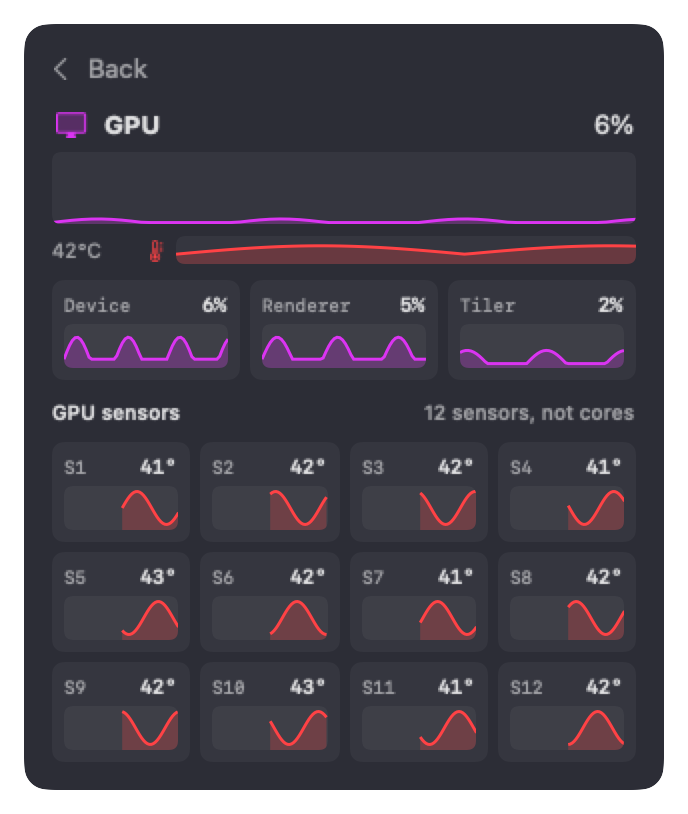
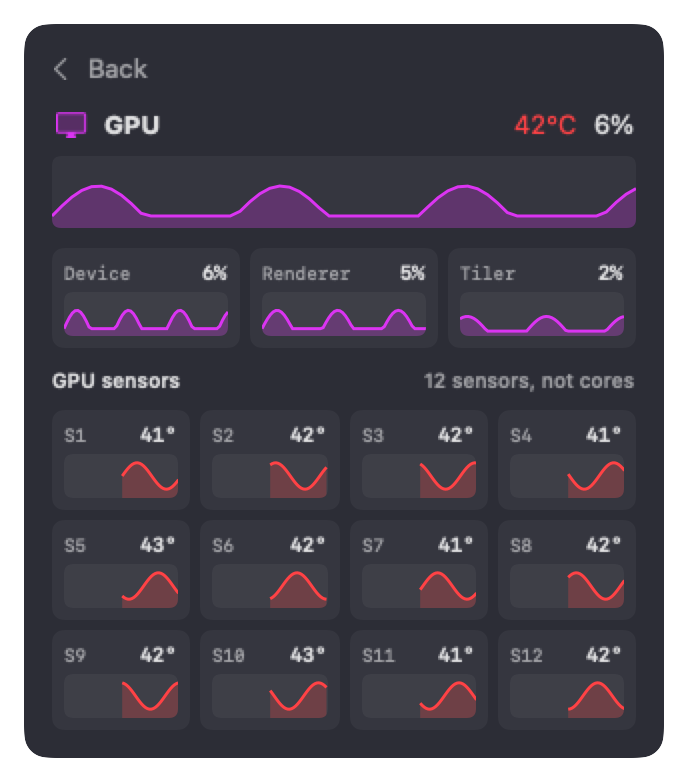
Simpler CPU page, blank-first GPU page, graphs zoom to max/min with 5 point padding, shorter Core details text

diff --git a/Sources/SystemMonitorApp/PanelView.swift b/Sources/SystemMonitorApp/PanelView.swift
@@ -131,7 +131,7 @@ struct PanelView: View {
     /// Read plus write as one number per sample, zoomed like the other tiles.
     private func driveHistory(_ drive: DriveRate?) -> [Double] {
         guard let drive, let samples = monitor.driveHistory[drive.bsdName] else { return [] }
-        return zoomed(samples.map { $0.read + $0.write }, minSpan: 1, floor: 0)
+        return zoomed(samples.map { $0.read + $0.write }, minSpan: 1, floor: 0, padding: 0.5)
     }
 
     private func tileData(_ item: MonitorItem) -> TileData? {
@@ -140,13 +140,13 @@ struct PanelView: View {
             return TileData(id: item, symbol: item.symbol, name: item.title, color: item.color,
                             big: percent(monitor.cpu), small: "\(ProcessInfo.processInfo.activeProcessorCount) cores",
                             corner: shownTemp(monitor.thermal?.cpuC),
-                            history: zoomed(monitor.cpuHistory, minSpan: 0.15, floor: 0))
+                            history: zoomed(monitor.cpuHistory, minSpan: 0.07, floor: 0, padding: 0.05))
         case .gpu:
             return TileData(id: item, symbol: item.symbol, name: item.title, color: item.color,
                             big: percent(monitor.gpu),
                             small: monitor.gpuDetail.map { "Renderer \(percent($0.renderer))" } ?? "Graphics",
                             corner: shownTemp(monitor.thermal?.gpuC),
-                            history: zoomed(monitor.gpuHistory, minSpan: 0.15, floor: 0))
+                            history: zoomed(monitor.gpuHistory, minSpan: 0.07, floor: 0, padding: 0.05))
         case .memory:
             guard let ram = monitor.ram else { return nil }
             let warning = ram.pressure == .normal ? nil : (ram.pressure == .warning ? "Pressure" : "Critical")
@@ -155,12 +155,12 @@ struct PanelView: View {
                             small: "\(bytes(ram.usedBytes)) of \(bytes(ram.totalBytes))",
                             corner: shownTemp(monitor.thermal?.ramC) ?? warning,
                             cornerColor: shownTemp(monitor.thermal?.ramC) == nil ? pressureColor(ram.pressure) : .red,
-                            history: zoomed(monitor.ramHistory, minSpan: 0.04, floor: 0))
+                            history: zoomed(monitor.ramHistory, minSpan: 0.03, floor: 0, padding: 0.01))
         case .power:
             return TileData(id: item, symbol: item.symbol, name: item.title, color: item.color,
                             big: monitor.power?.systemWatts.map { String(format: "%.1f W", $0) } ?? "n/a",
                             small: monitor.power?.gpuWatts.map { String(format: "GPU %.2f W", $0) } ?? "Whole system",
-                            corner: nil, history: zoomed(monitor.powerHistory, minSpan: 3, floor: 0))
+                            corner: nil, history: zoomed(monitor.powerHistory, minSpan: 2, floor: 0, padding: 0.5))
         case .drives:
             let drives = monitor.externalDrives
             guard let first = drives.first else {
@@ -175,7 +175,7 @@ struct PanelView: View {
         case .disk:
             guard let drive = monitor.internalDrive else {
                 return TileData(id: item, symbol: item.symbol, name: "Disk", color: item.color,
-                                big: "-", small: "Waiting for data", corner: nil, history: [])
+                                big: "-", small: "", corner: nil, history: [])
             }
             return TileData(id: item, symbol: item.symbol, name: "Disk", color: item.color,
                             big: Monitor.speed(drive.readMBps + drive.writeMBps),
@@ -202,11 +202,13 @@ struct PanelView: View {
     private func section(for item: MonitorItem) -> some View {
         switch item {
         case .memory: memorySection
-        case .cpu: percentSection(.cpu, value: monitor.cpu, history: monitor.cpuHistory,
-                                  temp: shownTemp(monitor.thermal?.cpuC), tempHistory: monitor.cpuTempHistory,
+        case .cpu: percentSection(.cpu, value: monitor.cpu,
+                                  history: zoomed(monitor.cpuHistory, minSpan: 0.07, floor: 0, padding: 0.05),
+                                  temp: shownTemp(monitor.thermal?.cpuC),
                                   detail: { if settings.coreDetails { cpuCoresView } })
-        case .gpu: percentSection(.gpu, value: monitor.gpu, history: monitor.gpuHistory,
-                                  temp: shownTemp(monitor.thermal?.gpuC), tempHistory: monitor.gpuTempHistory,
+        case .gpu: percentSection(.gpu, value: monitor.gpu,
+                                  history: zoomed(monitor.gpuHistory, minSpan: 0.07, floor: 0, padding: 0.05),
+                                  temp: shownTemp(monitor.thermal?.gpuC),
                                   detail: { if settings.coreDetails { gpuDetailView } })
         default: EmptyView()
         }
@@ -219,15 +221,16 @@ struct PanelView: View {
             HStack {
                 header(.memory)
                 Spacer()
+                if let temp = shownTemp(monitor.thermal?.ramC) { Text(temp).monospacedDigit().foregroundStyle(.red) }
                 if let ram = monitor.ram {
                     Text(pressureLabel(ram.pressure)).foregroundStyle(pressureColor(ram.pressure))
                 }
             }
             if let ram = monitor.ram {
                 Text("\(bytes(ram.usedBytes)) of \(bytes(ram.totalBytes)) used")
-                HistoryChart(values: monitor.ramHistory, color: pressureColor(ram.pressure))
+                HistoryChart(values: zoomed(monitor.ramHistory, minSpan: 0.03, floor: 0, padding: 0.01),
+                             color: pressureColor(ram.pressure))
                     .frame(height: 40)
-                tempChart(monitor.ramTempHistory, .red, label: shownTemp(monitor.thermal?.ramC))
                 MemoryBar(ram: ram).frame(height: 8)
                 VStack(spacing: 3) {
                     legend("App Memory", ram.appBytes, .blue)
@@ -261,16 +264,15 @@ struct PanelView: View {
     // MARK: CPU / GPU
 
     private func percentSection<Detail: View>(_ item: MonitorItem, value: Double?, history: [Double],
-                                              temp: String?, tempHistory: [Double],
-                                              @ViewBuilder detail: () -> Detail) -> some View {
-        VStack(alignment: .leading, spacing: 6) {
+                                              temp: String?, @ViewBuilder detail: () -> Detail) -> some View {
+        VStack(alignment: .leading, spacing: 8) {
             HStack {
                 header(item)
                 Spacer()
-                Text(value.map { String(format: "%.0f%%", $0 * 100) } ?? "n/a").monospacedDigit()
+                if let temp { Text(temp).monospacedDigit().foregroundStyle(.red) }
+                Text(value.map { String(format: "%.0f%%", $0 * 100) } ?? "-").monospacedDigit()
             }
             HistoryChart(values: history, color: item.color).frame(height: 36)
-            tempChart(tempHistory, .red, label: temp, labelColor: item == .cpu ? .red : .secondary)
             detail()
         }
     }
@@ -310,14 +312,12 @@ struct PanelView: View {
                 if settings.showTemperatures, let c = monitor.thermal?.clusterC[cluster.kind] {
                     Text(settings.temperature(c)).font(.caption).monospacedDigit().foregroundStyle(.red)
                 }
-                Text(percent(average)).font(.system(size: 12, design: .monospaced))
+                Text(average.map { percent($0) } ?? "-").font(.system(size: 12, design: .monospaced))
             }
-            HistoryChart(values: zoomed(meanSeries(histories), minSpan: 0.15, floor: 0), color: color)
-                .frame(height: 26)
             LazyVGrid(columns: Array(repeating: GridItem(.flexible(), spacing: 5), count: columns), spacing: 5) {
                 ForEach(Array(cluster.cpus.enumerated()), id: \.element) { index, cpu in
                     MiniBox(title: "\(cpu)", value: loads[index].map { percent($0) } ?? "-",
-                            history: zoomed(histories[index], minSpan: 0.25, floor: 0), color: color)
+                            history: zoomed(histories[index], minSpan: 0.07, floor: 0, padding: 0.05), color: color)
                 }
             }
         }
@@ -328,18 +328,17 @@ struct PanelView: View {
     /// macOS reports no per-GPU-core numbers without admin rights, so the boxes are the three loads
     /// it does report and the GPU's individual temperature sensors (sensors, not cores).
     private var gpuDetailView: some View {
-        VStack(alignment: .leading, spacing: 8) {
-            if let d = monitor.gpuDetail {
-                LazyVGrid(columns: Array(repeating: GridItem(.flexible(), spacing: 5), count: 3), spacing: 5) {
-                    MiniBox(title: "Device", value: percent(d.device),
-                            history: zoomed(monitor.gpuHistory, minSpan: 0.1, floor: 0), color: MonitorItem.gpu.color)
-                    MiniBox(title: "Renderer", value: percent(d.renderer),
-                            history: zoomed(monitor.gpuRendererHistory, minSpan: 0.1, floor: 0), color: MonitorItem.gpu.color)
-                    MiniBox(title: "Tiler", value: percent(d.tiler),
-                            history: zoomed(monitor.gpuTilerHistory, minSpan: 0.1, floor: 0), color: MonitorItem.gpu.color)
-                }
-            } else {
-                Text("Waiting for data").font(.caption).foregroundStyle(.secondary)
+        let d = monitor.gpuDetail
+        let color = MonitorItem.gpu.color
+        func box(_ title: String, _ value: Double?, _ history: [Double]) -> some View {
+            MiniBox(title: title, value: value.map { percent($0) } ?? "-",
+                    history: zoomed(history, minSpan: 0.07, floor: 0, padding: 0.05), color: color)
+        }
+        return VStack(alignment: .leading, spacing: 8) {
+            LazyVGrid(columns: Array(repeating: GridItem(.flexible(), spacing: 5), count: 3), spacing: 5) {
+                box("Device", d?.device, monitor.gpuHistory)
+                box("Renderer", d?.renderer, monitor.gpuRendererHistory)
+                box("Tiler", d?.tiler, monitor.gpuTilerHistory)
             }
             if settings.showTemperatures, let sensors = monitor.thermal?.gpuSensorsC, !sensors.isEmpty {
                 HStack {
@@ -351,34 +350,14 @@ struct PanelView: View {
                 LazyVGrid(columns: Array(repeating: GridItem(.flexible(), spacing: 5), count: 4), spacing: 5) {
                     ForEach(sensors.indices, id: \.self) { i in
                         MiniBox(title: "S\(i + 1)", value: settings.temperature(sensors[i], symbol: false),
-                                history: zoomed(i < monitor.gpuSensorHistory.count ? monitor.gpuSensorHistory[i] : [], minSpan: 4),
+                                history: zoomed(i < monitor.gpuSensorHistory.count ? monitor.gpuSensorHistory[i] : [],
+                                                minSpan: 4, padding: 1),
                                 color: .red)
                     }
                 }
             }
         }
         .padding(.top, 2)
-    }
-
-    /// A thin chart of the recent temperature. It zooms to the recent range (at least 10 degrees tall)
-    /// so small changes show up, and hides itself until there are a few readings.
-    @ViewBuilder
-    private func tempChart(_ history: [Double], _ color: Color, label: String? = nil,
-                           labelColor: Color = .secondary) -> some View {
-        if settings.showTemperatures, label != nil || history.count > 2 {
-            HStack(spacing: 4) {
-                if let label {
-                    Text(label).font(.caption).monospacedDigit().foregroundStyle(labelColor)
-                        .frame(width: 42, alignment: .leading)
-                }
-                Image(systemName: "thermometer.medium").font(.system(size: 10)).foregroundStyle(color).frame(width: 12)
-                if history.count > 2 {
-                    HistoryChart(values: zoomed(history, minSpan: 10), color: color).frame(height: 14)
-                } else {
-                    Spacer(minLength: 0)
-                }
-            }
-        }
     }
 
     /// The temperature text for a section header, or nil when temperatures are off or unavailable.

diff --git a/Sources/SystemMonitorCore/Series.swift b/Sources/SystemMonitorCore/Series.swift
@@ -1,22 +1,26 @@
 import Foundation
 
-/// Maps a history to 0...1 over its own recent range, so a graph always shows detail: a 5% CPU
-/// line and a steady 68% memory line are not squashed against an absolute 0...100% scale.
-/// `minSpan` keeps tiny wobbles from being blown up into noise: a flat line stays flat, centred.
-/// `floor` stops the range going below a natural minimum (a load or speed cannot be negative).
-public func zoomed(_ values: [Double], minSpan: Double, floor: Double? = nil) -> [Double] {
+/// Maps a history to 0...1 over its own recent range, so a graph always shows detail: a 2% GPU spike
+/// and a steady 68% memory line are not squashed against an absolute 0...100% scale.
+/// - `padding` adds room above the highest and below the lowest value, so the line never touches the edges.
+/// - `minSpan` keeps tiny wobbles from being blown up into noise: a flat line stays flat, centred.
+/// - `floor` stops the range going below a natural minimum (a load or speed cannot be negative).
+public func zoomed(_ values: [Double], minSpan: Double, floor: Double? = nil, padding: Double = 0) -> [Double] {
     guard let hi = values.max(), let lo = values.min() else { return [] }
-    let span = max(hi - lo, minSpan)
-    var bottom = (hi + lo) / 2 - span / 2          // centre the data in the range
+    var bottom = lo - padding
+    var top = hi + padding
     if let floor, bottom < floor { bottom = floor }
-    return values.map { ($0 - bottom) / span }
-}
-
-/// The point-by-point average of several equally sampled series, aligned on the latest sample.
-/// Used for a core class's average load over time.
-public func meanSeries(_ series: [[Double]]) -> [Double] {
-    guard let length = series.map(\.count).min(), length > 0 else { return [] }
-    return (0..<length).map { i in
-        series.reduce(0) { $0 + $1[$1.count - length + i] } / Double(series.count)
+    if top - bottom < minSpan {
+        // Too flat: widen around the middle, but never below the floor (extend upwards instead).
+        let extra = minSpan - (top - bottom)
+        var newBottom = bottom - extra / 2
+        var newTop = top + extra / 2
+        if let floor, newBottom < floor {
+            newTop += floor - newBottom
+            newBottom = floor
+        }
+        bottom = newBottom
+        top = newTop
     }
+    return values.map { ($0 - bottom) / (top - bottom) }
 }

diff --git a/Sources/SystemMonitorApp/Monitor.swift b/Sources/SystemMonitorApp/Monitor.swift
@@ -26,9 +26,6 @@ struct MonitorState {
     var cpuHistory: [Double] = []
     var gpuHistory: [Double] = []
     var powerHistory: [Double] = []     // watts
-    var cpuTempHistory: [Double] = []   // °C, one point per thermal read (about every 3 s)
-    var gpuTempHistory: [Double] = []
-    var ramTempHistory: [Double] = []
     var driveHistory: [String: [DriveSample]] = [:]
 }
 
@@ -94,9 +91,6 @@ final class Monitor: ObservableObject {
     var cpuHistory: [Double] { state.cpuHistory }
     var gpuHistory: [Double] { state.gpuHistory }
     var powerHistory: [Double] { state.powerHistory }
-    var cpuTempHistory: [Double] { state.cpuTempHistory }
-    var gpuTempHistory: [Double] { state.gpuTempHistory }
-    var ramTempHistory: [Double] { state.ramTempHistory }
     var driveHistory: [String: [DriveSample]] { state.driveHistory }
 
     /// External drives that are connected and not switched off in settings.
@@ -291,7 +285,6 @@ private final class Sampler {
         if shown.contains(.thermal) { wanted.formUnion([.cpu, .gpu, .ram, .ssd, .fan]) }   // average + fan
         guard !wanted.isEmpty else {
             state.thermal = nil
-            state.cpuTempHistory = []; state.gpuTempHistory = []; state.ramTempHistory = []
             state.gpuSensorHistory = []
             return
         }
@@ -308,9 +301,6 @@ private final class Sampler {
             }
             for i in sensors.indices { push(&state.gpuSensorHistory[i], sensors[i]) }
         }
-        push(&state.cpuTempHistory, state.thermal?.cpuC)
-        push(&state.gpuTempHistory, state.thermal?.gpuC)
-        push(&state.ramTempHistory, state.thermal?.ramC)
     }
 
     /// Number of ticks that make up Activity Monitor's default 5 second averaging window.

diff --git a/Tests/SystemMonitorCoreTests/CollectorTests.swift b/Tests/SystemMonitorCoreTests/CollectorTests.swift
@@ -197,16 +197,17 @@ final class CollectorTests: XCTestCase {
         XCTAssertEqual(zoomed([], minSpan: 1), [])
     }
 
-    func testMeanSeriesAveragesPointByPoint() {
-        let mean = meanSeries([[0, 0.2, 0.4], [0.2, 0.4, 0.6]])
-        XCTAssertEqual(mean.count, 3)
-        for (got, want) in zip(mean, [0.1, 0.3, 0.5]) { XCTAssertEqual(got, want, accuracy: 0.0001) }
+    func testZoomedPaddingGivesRoomAroundTheData() {
+        // A GPU that never goes above 2%: with 5 points of padding the line is not squashed into the
+        // bottom of a 0...100% scale, and not pinned to the top either.
+        let z = zoomed([0, 0.01, 0.02, 0.01], minSpan: 0.07, floor: 0, padding: 0.05)
+        XCTAssertEqual(z.min()!, 0, accuracy: 0.001)               // floor holds
+        XCTAssertTrue(z.max()! > 0.2 && z.max()! < 0.5, "max \(z.max()!)")
     }
 
-    func testMeanSeriesAlignsOnTheLatestSample() {
-        // The shorter series is the one that started later; the average covers only the shared part.
-        XCTAssertEqual(meanSeries([[1, 2, 3, 4], [3, 4]]).count, 2)
-        XCTAssertEqual(meanSeries([[1, 2, 3, 4], [3, 4]]), [3, 4])
-        XCTAssertEqual(meanSeries([]), [])
+    func testZoomedPaddingBelowAndAboveWithoutFloor() {
+        let z = zoomed([40, 44], minSpan: 2, padding: 1)             // range 39...45
+        XCTAssertEqual(z[0], 1.0 / 6, accuracy: 0.001)
+        XCTAssertEqual(z[1], 5.0 / 6, accuracy: 0.001)
     }
 }

diff --git a/Sources/SystemMonitorApp/ScreenshotMode.swift b/Sources/SystemMonitorApp/ScreenshotMode.swift
@@ -75,8 +75,6 @@ enum ScreenshotMode {
         s.gpuRendererHistory = curve(60) { 0.02 + 0.05 * max(0, sin($0 * 17)) }
         s.gpuTilerHistory = curve(60) { 0.01 + 0.03 * max(0, sin($0 * 13 + 1)) }
         s.gpuSensorHistory = (0..<12).map { i in curve(30) { 41 + 1.5 * sin($0 * 6 + Double(i)) + 0.8 * Double(i % 3) } }
-        s.cpuTempHistory = curve(60) { 40 + 6 * abs(sin($0 * 7)) + ($0 > 0.75 ? 10 * sin(($0 - 0.75) * 12) : 0) }
-        s.gpuTempHistory = curve(60) { 38 + 3 * abs(sin($0 * 5)) }
         let ssd = DriveRate(bsdName: "disk4", label: "Work SSD", model: "Demo SSD", isInternal: false,
                             readBytesPerSec: 412e6, writeBytesPerSec: 186e6)
         let internalDisk = DriveRate(bsdName: "disk0", label: "Internal SSD", model: "Demo", isInternal: true,

diff --git a/Sources/SystemMonitorApp/SettingsView.swift b/Sources/SystemMonitorApp/SettingsView.swift
@@ -73,7 +73,7 @@ struct SettingsView: View {
                 SettingsRow(title: "Core details") {
                     Toggle("", isOn: $settings.coreDetails).toggleStyle(.checkbox).labelsHidden()
                 }
-                Text("See how busy each CPU core is (open the CPU tile) and the graphics chip's sensors (GPU tile).")
+                Text("A per-core view on the CPU and GPU pages.")
                     .font(.caption).foregroundStyle(.secondary)
                     .fixedSize(horizontal: false, vertical: true).padding(.bottom, 8)
             }
